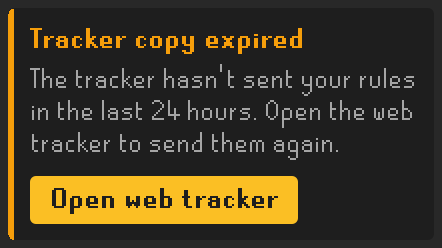
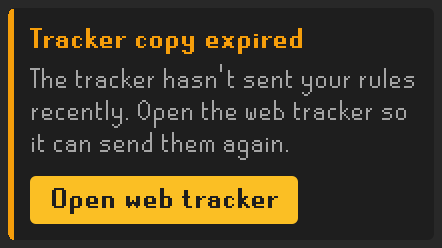
Redraw the guide's Tracker copy expired picture from plugin main
The RuneLite guide's status gallery showed a picture of the Tracker
copy expired card that said the tracker had not sent the rules "in the
last 24 hours", right beside a caption that says 30 days. The earlier
fix changed the caption only. The picture is now rendered headless from
plugin main (12810c0) with its own guideScreenshots task. It says the
tracker has not sent the rules recently, which fits the relay's 30 day
lifetime. The manifest entry has the new hash, plugin commit, RuneLite
version and date. The unchanged status cards rendered byte for byte the
same as the guide's copies, so the drawing matches the others.

The up-to-date card is left as it is: plugin main titles it "Using the
tracker's rules", but the guide still says "Rules up to date", which is
the owner's call under the earlier finding about the plugin release.

Pinned by "shows the expired card as the plugin words it now, not the
old 24 hours" in data/runeliteGuideAssets.test.ts.

Changed region(s): [[0.0588, 0.3952, 0.9412, 0.5081], [0.0588, 0.5363, 0.7647, 0.6492]]

diff --git a/data/runeliteGuideAssets.test.ts b/data/runeliteGuideAssets.test.ts
@@ -73,6 +73,16 @@ describe('RuneLite guide pictures on disk', () => {
     }
   });
 
+  it('shows the expired card as the plugin words it now, not the old 24 hours', () => {
+    // The picture drawn from plugin 9b6b5d3 said the tracker had not sent the rules "in the last 24 hours",
+    // beside a caption that says 30 days. Plugin main says "recently", which fits the relay's lifetime.
+    const expired = readManifest().entries.find(entry => entry.id === 'status-expired')!;
+
[1 lines of base64/hex data omitted]
+    expect(expired.pluginCommit).not.toBe('9b6b5d3d677f93af1c199cef2950d5967e1288c1');
+    expect(expired.purpose).not.toMatch(/\bday\b|24 hours/);
+  });
+
   it('holds every picture it lists, and nothing else, each the file it records', () => {
     const manifest = readManifest();
     const pngs = readdirSync(root).filter((name: string) => name.endsWith('.png')).sort();
